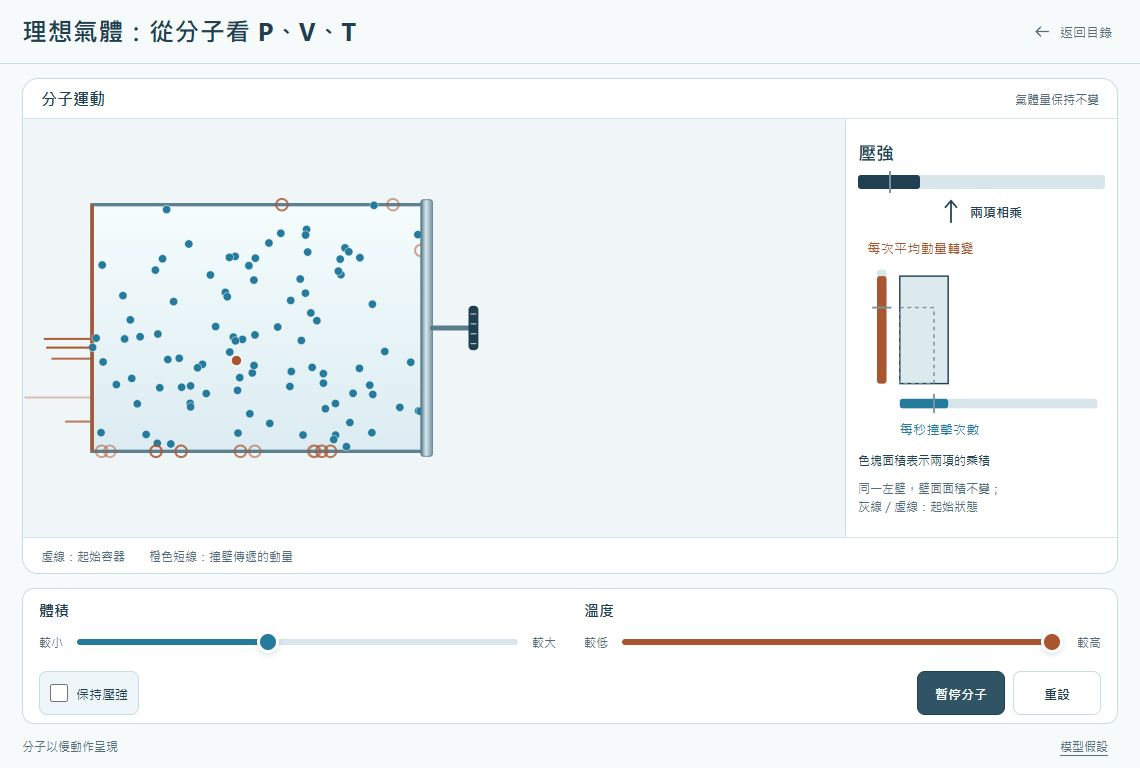
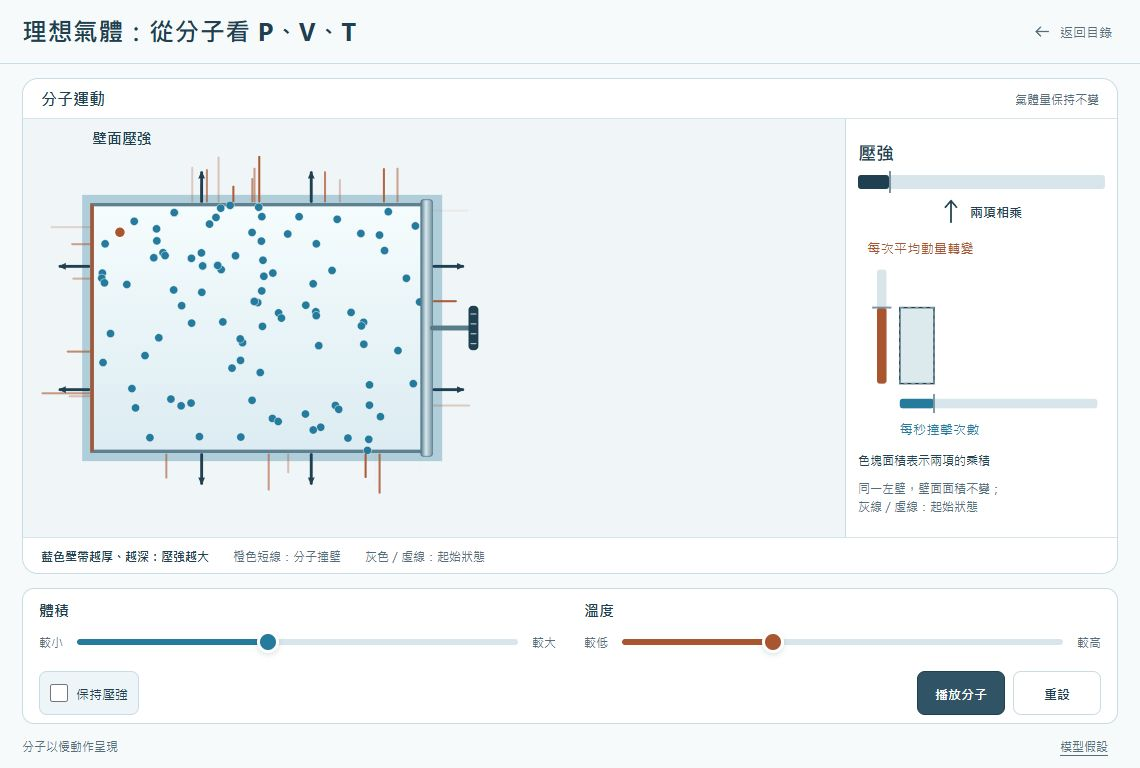
feat(gas): 顯示四壁撞擊與平均壓強

diff --git a/HEAT/kinetic-gas/index.html b/HEAT/kinetic-gas/index.html
@@ -20,12 +20,16 @@
       <div class="scene-heading"><h2 id="scene-title">分子運動</h2><span>氣體量保持不變</span></div>
       <div class="scene-body">
       <div class="scene-wrap">
-        <svg id="scene" viewBox="0 0 1000 400" role="img" aria-labelledby="scene-title scene-description">
-          <desc id="scene-description">代表分子在容器內無規運動，撞壁時反射。橙色左壁短線顯示實際碰撞位置及傳給壁面的動量，虛線表示起始容器。</desc>
+        <svg id="scene" viewBox="0 -50 1000 500" role="img" aria-labelledby="scene-title scene-description">
+          <desc id="scene-description">代表分子在容器內無規運動，撞壁時反射。橙色向外短線顯示四邊真實碰撞傳給壁面的動量。藍色壁帶越厚、越深，表示平均壓強越大；深藍箭嘴垂直向外，表示氣體對相同小面積壁面的平均作用力。灰色箭嘴及虛線容器表示起始狀態。</desc>
           <defs>
             <linearGradient id="chamber-glass" x1="0" y1="0" x2="0" y2="1"><stop offset="0" stop-color="#f5fcfd"/><stop offset="1" stop-color="#dcecf2"/></linearGradient>
             <linearGradient id="piston-metal"><stop offset="0" stop-color="#527888"/><stop offset="0.45" stop-color="#d9e7ec"/><stop offset="1" stop-color="#7695a3"/></linearGradient>
+            <marker id="force-tip" viewBox="0 0 8 8" refX="7" refY="4" markerWidth="8" markerHeight="8" markerUnits="userSpaceOnUse" orient="auto"><path d="M0 0 8 4 0 8Z" fill="#203f50"/></marker>
+            <marker id="force-reference-tip" viewBox="0 0 8 8" refX="7" refY="4" markerWidth="8" markerHeight="8" markerUnits="userSpaceOnUse" orient="auto"><path d="m1 1 6 3-6 3" fill="none" stroke="#7b929e" stroke-width="1.5"/></marker>
           </defs>
+          <text class="wall-pressure-label" x="84" y="-24">壁面壓強</text>
+          <path id="pressure-band" fill-rule="evenodd" aria-hidden="true"/>
           <rect id="reference-box" x="84" y="50" width="400" height="300"/>
           <rect id="gas-space" x="84" y="50" width="400" height="300"/>
           <path id="fixed-walls" d="M484 50H84V350H484"/>
@@ -34,6 +38,8 @@
           <g id="particles"></g>
           <g id="collisions"></g>
           <g id="piston"><rect class="piston-face" x="0" y="44" width="14" height="312" rx="3"/><path class="piston-rod" d="M14 200h50"/><rect class="piston-grip" x="58" y="173" width="12" height="54" rx="5"/><path class="piston-grooves" d="M61 183h6m-6 12h6m-6 12h6m-6 12h6"/></g>
+          <g id="wall-force-reference" aria-hidden="true"></g>
+          <g id="wall-force" role="img" aria-label="同樣小面積壁面的平均受力：與起始相同"></g>
         </svg>
       </div>
       <aside class="comparison" aria-label="撞壁因素與壓強的關係">
@@ -62,7 +68,7 @@
         <p class="comparison-key">同一左壁，壁面面積不變；<br>灰線／虛線：起始狀態</p>
       </aside>
       </div>
-      <p class="scene-key">虛線：起始容器<span>橙色短線：撞壁傳遞的動量</span></p>
+      <p class="scene-key"><span class="force-key">藍色壁帶越厚、越深：壓強越大</span><span>橙色短線：分子撞壁</span><span>灰色／虛線：起始狀態</span></p>
     </section>
     <section class="controls" aria-label="調整氣體狀態">
       <div class="dual-sliders">
@@ -92,6 +98,8 @@
     <p>忽略分子體積及分子間作用，只計完全彈性撞壁。改變設定直接展示另一個平衡狀態，不模擬快速壓縮、活塞作功及熱交換過程。</p>
     <p>勾選「保持壓強」後，體積與溫度按比例連動，調整範圍受另一項設定限制。滑桿刻度保持一致。</p>
     <p>每秒撞擊次數乘以每次傳給壁面的平均垂直動量轉變，得到平均作用力，再除以壁面面積就是壓強。這裡觀察同一左壁，壁面面積保持不變。</p>
+    <p>容器外的藍色壁帶表示平均壓強，越厚、越深表示壓強越大。深藍箭嘴表示氣體對相同小面積壁面的平均作用力，方向垂直壁面向外；灰色箭嘴是起始壓強的參考。壁帶與箭長只供定性比較，不作線性量度，也不表示容器變形。</p>
+    <p>橙色短線出現在實際撞壁位置，方向垂直向外，長度反映該次傳給壁面的垂直動量；是單次撞擊示意，並非接觸期間的力讀數。</p>
     <p>乘積圖的闊度與高度分別跟兩個撞擊因素成正比，色塊面積及壓強條便跟兩者乘積成正比。灰線與虛線是起始參考，不顯示數值。</p>
     <p>比較來自同一組粒子和容器尺寸的長時間平均，短時間的可見碰撞會有起伏。</p>
     <button type="button" popovertarget="model-notes" popovertargetaction="hide">關閉</button>

diff --git a/HEAT/kinetic-gas/app.js b/HEAT/kinetic-gas/app.js
@@ -15,6 +15,11 @@
   for (let i = 0; i < M.COUNT; i++) {
     circles.push(element('circle', { r: i === 0 ? 6.5 : 5, class: i === 0 ? 'particle tracked' : 'particle' }, $('particles')));
   }
+  const wallForces = [], referenceForces = [];
+  for (let i = 0; i < 8; i++) {
+    referenceForces.push(element('path', {}, $('wall-force-reference')));
+    wallForces.push(element('path', {}, $('wall-force')));
+  }
 
   function drawParticles() {
     const width = state.width * 200;
@@ -28,13 +33,11 @@
     const collisions = $('collisions'); collisions.replaceChildren();
     for (const hit of state.hits) {
       if (hit.axis === 'z') continue;
-      const x = 84 + hit.x * 200, y = 50 + hit.y * 200;
+      const dx = hit.axis === 'x' ? hit.side : 0, dy = hit.axis === 'y' ? hit.side : 0;
+      const x = 84 + hit.x * 200 + (dx > 0 ? 16 : dx * 3), y = 50 + hit.y * 200 + dy * 4;
       const opacity = Math.max(0, 1 - (state.time - hit.time) / 0.28);
-      if (hit.axis === 'x' && hit.side === -1) {
-        element('path', { d: `M${x - 3} ${y}h${-Math.min(78, 12 + hit.impulse * 10)}`, class: 'hit', opacity }, collisions);
-      } else {
-        element('circle', { cx: x, cy: y, r: 7, class: 'hit', opacity, 'stroke-width': 1.5 }, collisions);
-      }
+      const length = Math.min(78, 12 + hit.impulse * 10);
+      element('path', { d: `M${x} ${y}l${dx * length} ${dy * length}`, class: 'hit', opacity }, collisions);
     }
   }
 
@@ -61,6 +64,24 @@
     $('product-area').setAttribute('height', height);
     $('product-area').setAttribute('y', 158 - height);
     $('pressure-bar').style.width = `${pressureRatio / 8 * 100}%`;
+    // 壓強範圍很闊；以有界長度比較大小，避免箭嘴超出畫布。
+    const strength = pressureRatio / (1 + pressureRatio);
+    const forceLength = 70 * strength, wallWidth = state.width * 200, band = 24 * strength;
+    const right = 98 + wallWidth;
+    $('pressure-band').setAttribute('d', `M${84 - band} ${50 - band}H${right + band}V${350 + band}H${84 - band}Z M84 50H${right}V350H84Z`);
+    $('pressure-band').setAttribute('fill-opacity', 0.12 + 0.4 * strength);
+    $('wall-force').style.strokeWidth = 2 + 3 * strength;
+    const forcePositions = [
+      [80, 125, -1, 0], [80, 275, -1, 0],
+      [100 + wallWidth, 125, 1, 0], [100 + wallWidth, 275, 1, 0],
+      [84 + wallWidth / 3, 46, 0, -1], [84 + wallWidth * 2 / 3, 46, 0, -1],
+      [84 + wallWidth / 3, 354, 0, 1], [84 + wallWidth * 2 / 3, 354, 0, 1]
+    ];
+    forcePositions.forEach(([x, y, dx, dy], i) => {
+      wallForces[i].setAttribute('d', `M${x} ${y}l${dx * forceLength} ${dy * forceLength}`);
+      referenceForces[i].setAttribute('d', `M${x} ${y}l${dx * 35} ${dy * 35}`);
+    });
+    $('wall-force').setAttribute('aria-label', `同樣小面積壁面的平均受力：${relative(pressureRatio, 1)}`);
     for (const [name, label, ratio] of [['pressure', '壓強', pressureRatio], ['frequency', '每秒撞擊次數', r.frequency], ['impulse', '每次平均動量轉變', r.impulse]]) {
       $(`${name}-comparison`).setAttribute('aria-label', `${label}：${relative(ratio, 1)}`);
     }

diff --git a/HEAT/kinetic-gas/style.css b/HEAT/kinetic-gas/style.css
@@ -6,6 +6,7 @@
 .scene-panel{grid-column:1 / -1;display:grid;grid-template-rows:40px minmax(0,1fr) 36px;min-height:0;min-width:0;border:1px solid var(--line);border-radius:16px;background:#fff}
 .scene-heading{display:flex;align-items:center;justify-content:space-between;padding:0 18px;gap:12px;border-bottom:1px solid #d7e4ea}.scene-heading h2{font-size:16px;font-weight:650}.scene-heading>span{font-size:12px;color:var(--muted)}.scene-body{display:grid;grid-template-columns:minmax(0,1fr) 272px;min-height:0;background:#f0f6f8}.scene-wrap{min-width:0;min-height:0;position:relative}.scene-wrap>svg{display:block;width:100%;height:100%;position:absolute;inset:0}.scene-key{display:flex;align-items:center;gap:24px;padding:0 18px;border-top:1px solid #d7e4ea;font-size:12px;color:var(--muted)}
 #reference-box{fill:none;stroke:#8faab6;stroke-width:1.5;stroke-dasharray:6 6}#gas-space{fill:url(#chamber-glass)}#fixed-walls{stroke:#5e8191;fill:none;stroke-width:4}.wall-glint{stroke:#fff;stroke-opacity:.65;stroke-width:1;fill:none;pointer-events:none}#left-wall{stroke:var(--warm);stroke-width:4}.piston-face{fill:url(#piston-metal);stroke:#527888;stroke-width:1}.piston-rod{stroke:#597c8b;fill:none;stroke-width:6;stroke-linecap:round}.piston-grip{fill:var(--ink)}.piston-grooves{stroke:#a9c0cb;fill:none;stroke-width:1.5;stroke-linecap:round}.particle{fill:var(--accent);stroke:#fff;stroke-opacity:.65;stroke-width:.8}.tracked{fill:var(--warm);stroke:#fff;stroke-width:1.5;stroke-opacity:1}.hit{stroke:var(--warm);fill:none;stroke-width:2.5;stroke-linecap:round}
+#pressure-band{fill:var(--accent);pointer-events:none}.wall-pressure-label{font-family:inherit;font-size:18px;font-weight:650;fill:var(--ink)}#wall-force,#wall-force-reference{fill:none;stroke-linecap:round;pointer-events:none}#wall-force{stroke:var(--ink);stroke-width:2.5;marker-end:url(#force-tip)}#wall-force-reference{stroke:#7b929e;stroke-width:1.5;stroke-dasharray:3 4;marker-end:url(#force-reference-tip)}.force-key{color:var(--ink);font-weight:600}
 .controls{min-width:0;display:grid;grid-template-rows:minmax(0,1fr) 44px;gap:4px;padding:8px 16px;border:1px solid var(--line);border-radius:12px;background:#fff}.control-label{display:block;font-weight:650;font-size:15px;line-height:20px}.dual-sliders{display:grid;grid-template-columns:1fr 1fr;gap:28px;align-items:center}.dual-sliders>div{min-width:0}.temperature-control{--control-accent:var(--warm)}.slider-row{display:grid;grid-template-columns:30px 1fr 30px;align-items:center;gap:8px;font-size:12px;color:var(--muted)}.slider-row>span:last-child{text-align:right}
 input[type=range]{appearance:none;-webkit-appearance:none;width:100%;height:44px;margin:0;background:transparent;accent-color:var(--control-accent);cursor:pointer;touch-action:manipulation;border-radius:8px}
 input[type=range]::-webkit-slider-runnable-track{height:6px;border-radius:4px;background:linear-gradient(to right,var(--control-accent) var(--range-position,50%),var(--rail) var(--range-position,50%))}

diff --git a/HEAT/kinetic-gas/PRODUCT.md b/HEAT/kinetic-gas/PRODUCT.md
@@ -14,6 +14,10 @@ web
 
 最新修訂把比較圖放到畫布右側，明確呈現壓強由撞擊頻率及每次平均動量轉變相乘決定。兩條撞擊因素以正交比較條表示，並同時決定乘積色塊的闊度和高度；色塊面積向上連到壓強條。保留無數值觀察，僅說明乘積機制，不自動代學生解釋各種 PVT 操作的結果。
 
+容器壁面附上深藍色向外受力箭嘴，讓壓強直接連到容器；各箭嘴表示同樣小面積上的平均受力，不是分子速度。箭嘴隨壓強增大而加長，灰色箭嘴表示起始壓強，兩者一起跟隨壁面位置。為容納完整壓強範圍，箭長採有界的單調映射，只供定性比較；右側壓強條及乘積圖仍為線性比例。保持壓強時，壁面移動而箭長不變。
+
+進一步把平均壓強映射為容器外圍的藍色壁帶：壓強越大，帶寬、深淺及受力箭嘴粗幼越明顯；保持壓強時全部維持不變。壁帶不改變氣體空間或容器形狀，亦不表示材料變形。四個可見壁面的實際撞擊均畫成垂直向外的橙色短線，長度來自該次垂直動量轉移；不顯示接觸力數值或分子速度箭嘴。壁帶、箭嘴及右側比較共用同一狀態，壁帶採與箭長相同的定性單調映射。
+
 ## 教學證據
 
 - 難點：知道氣體定律，仍未能由分子運動解釋 PVT 關係。
